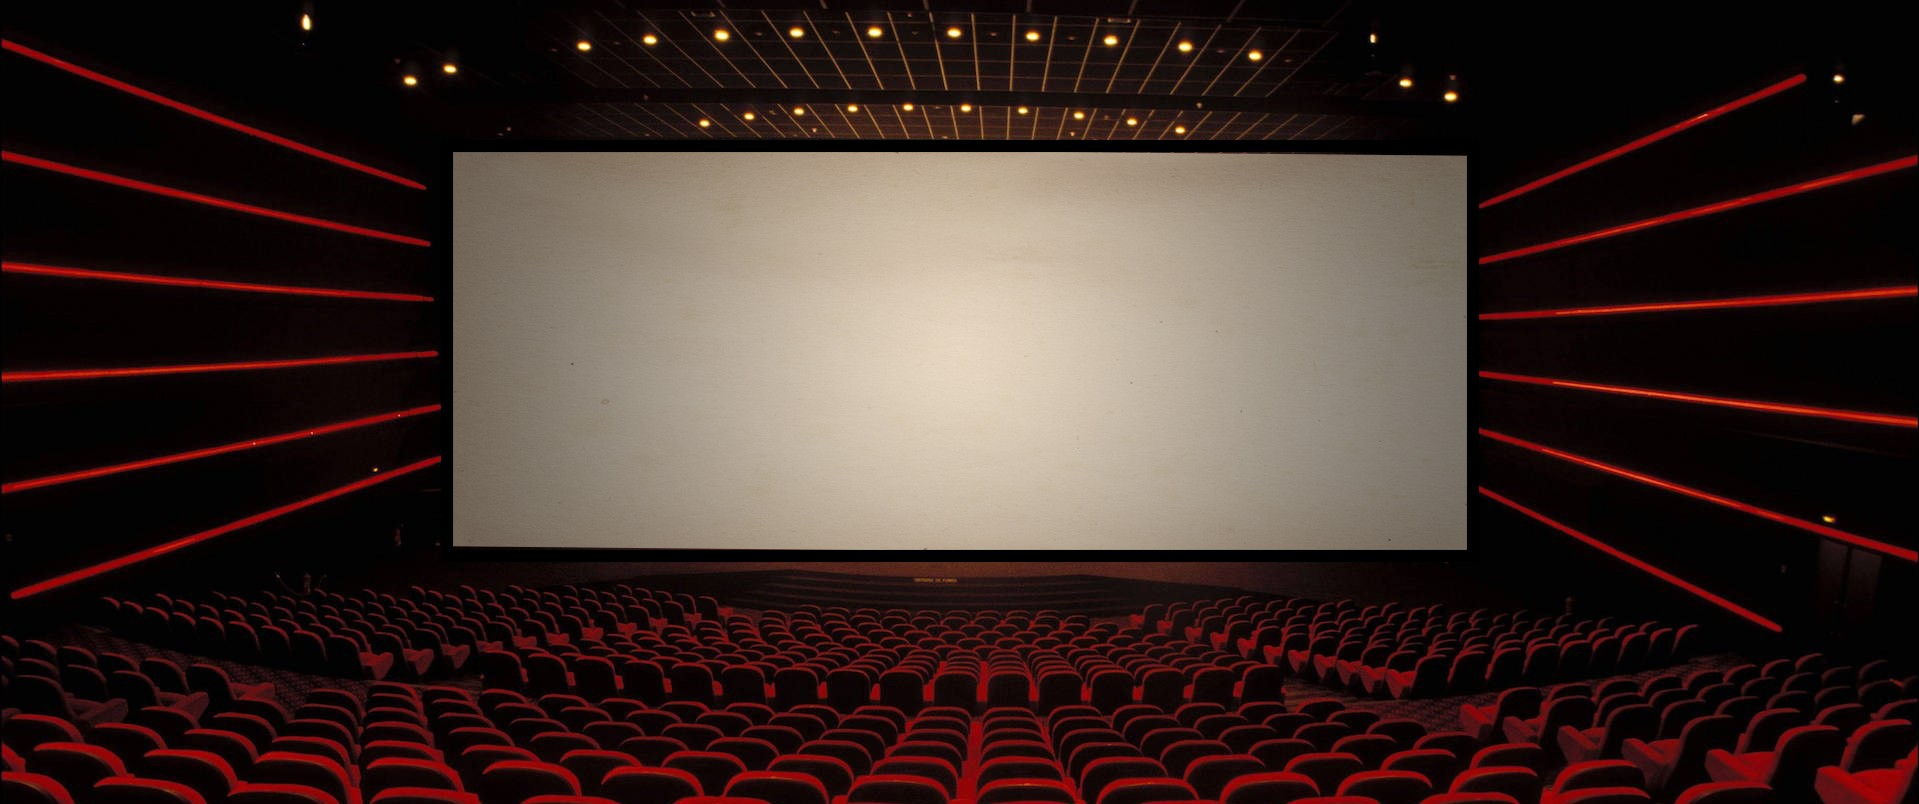
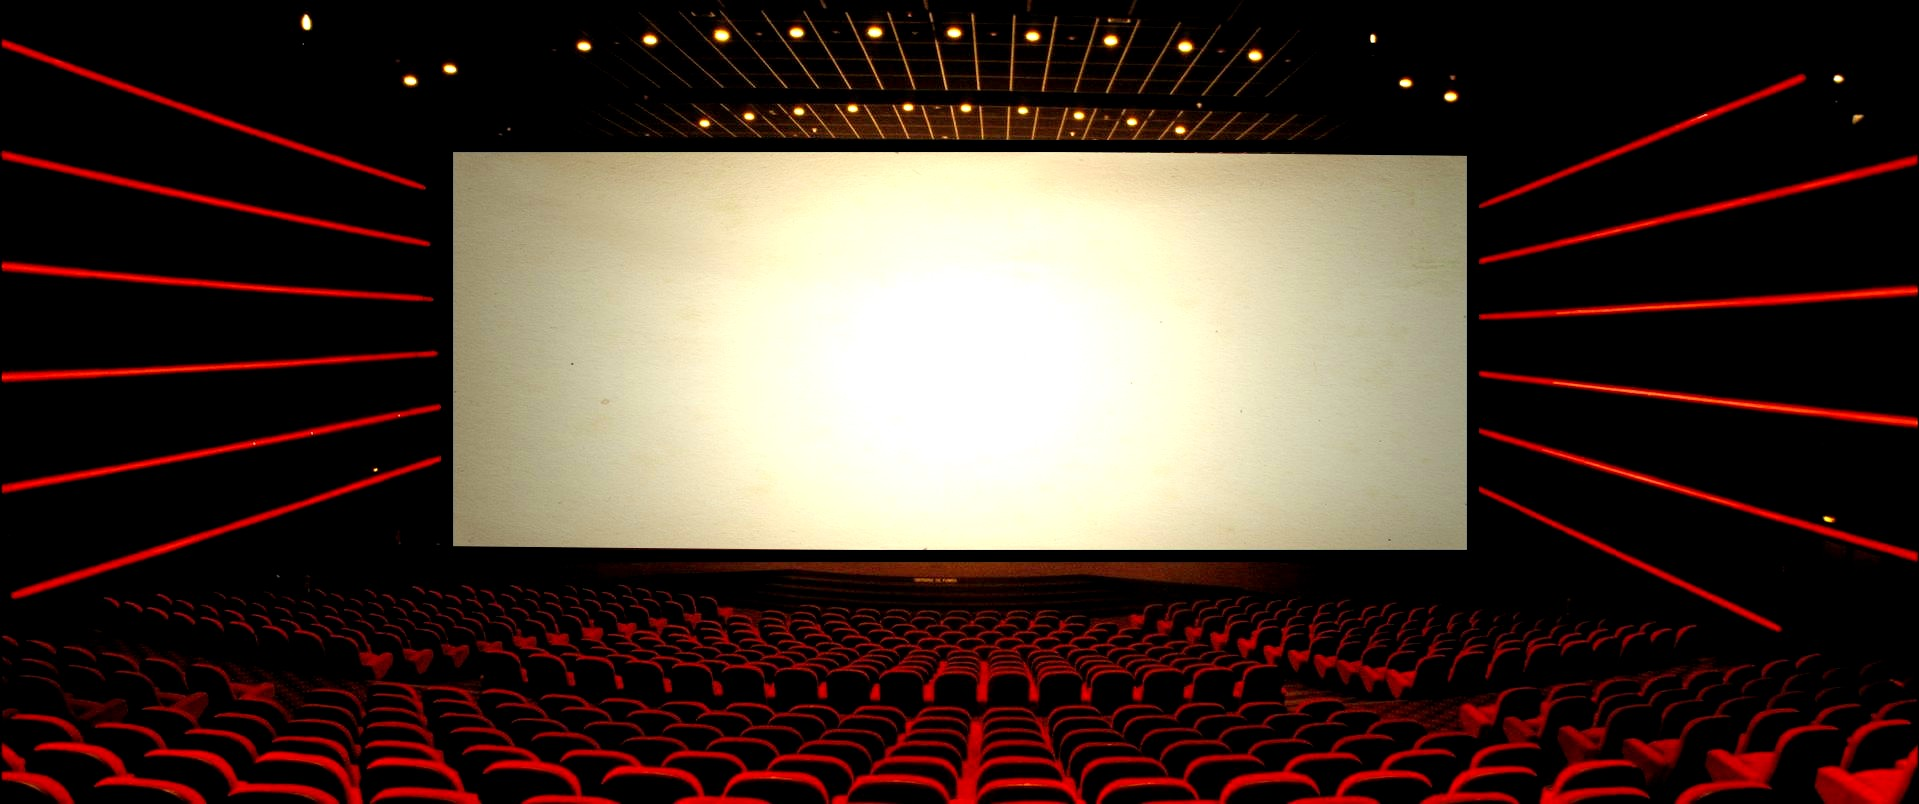
mediaQuerys

diff --git a/Views/layout/styles/layout.css b/Views/layout/styles/layout.css
@@ -212,6 +212,7 @@ td{border-width:0 1px;}
 --------------------------------------------------------------------------------------------------------------- */
 .background-pic{background-size: cover; height: 800px; background-position: center; background-repeat: no-repeat;}
 .up{margin-top:-20px;}
+.back{height:680px;} /*fondo slide*/
 
 /*Icons
 --------------------------------------------------------------------------------------------------------------- */
@@ -260,7 +261,7 @@ hr, .borderedbox{border-color:#D7D7D7;}
 label span{color:#FF0000; background-color:inherit;}
 input:focus, textarea:focus, *:required:focus{border-color:#FF5723;}
 .overlay{color:#CBCBCB; background-color:inherit;}
-.overlay::after{color:inherit; background-color:rgba(0,0,0,.55);}
+.overlay::after{color:inherit; background-color:rgba(0,0,0,.2);}
 
 .btn, .btn.inverse:hover{color:#FFFFFF; background-color:#FF5723; border-color:#FF5723;}
 .btn:hover, .btn.inverse{color:inherit; background-color:transparent; border-color:inherit;}

diff --git a/Views/layout/styles/custom.flexslider.css b/Views/layout/styles/custom.flexslider.css
@@ -22,7 +22,7 @@ File: Custom Flexslider CSS => For FlexSlider v2.6.1
 .flexslider .slides a{text-decoration:none; outline:none;}
 .flexslider .slides h2.heading{position: relative; left:90px;bottom:5px;} /*TITULO DEL SLIDE*/
 .flexslider .slides a img{border:none;}
-.flexslider .slides img{display:block;  width:782px; height:306px;max-width:1000px; margin:-13px 0 20px 95px;} /*IMAGENES SLIDE*/
+.flexslider .slides img{display:block;  width:860px; height:339px;max-width:1000px; margin:-5px 0 20px 60px;} /*IMAGENES SLIDE*/
 /* Modern Clear fix for the .slides element */
 .slides::before, .slides::after{display:table; content:"";}
 .slides, .slides::after{clear:both;}

diff --git a/Views/home.php b/Views/home.php
@@ -7,7 +7,7 @@ Licence URI: https://www.os-templates.com/template-terms
 -->
 
 <!-- Top Background Image Wrapper -->
-<div class="bgded overlay" style="background-image:url('<?php echo IMG_PATH?>/backgrounds/cineBack2.jpg');"> 
+<div class="bgded overlay back" style="background-image:url('<?php echo IMG_PATH?>/backgrounds/cineBack2.jpg');"> 
   <!-- ################################# FLEXSLIDER ######################################## -->
   <div id="pageintro" class="hoc clear"> 
     <div class="flexslider basicslider">
